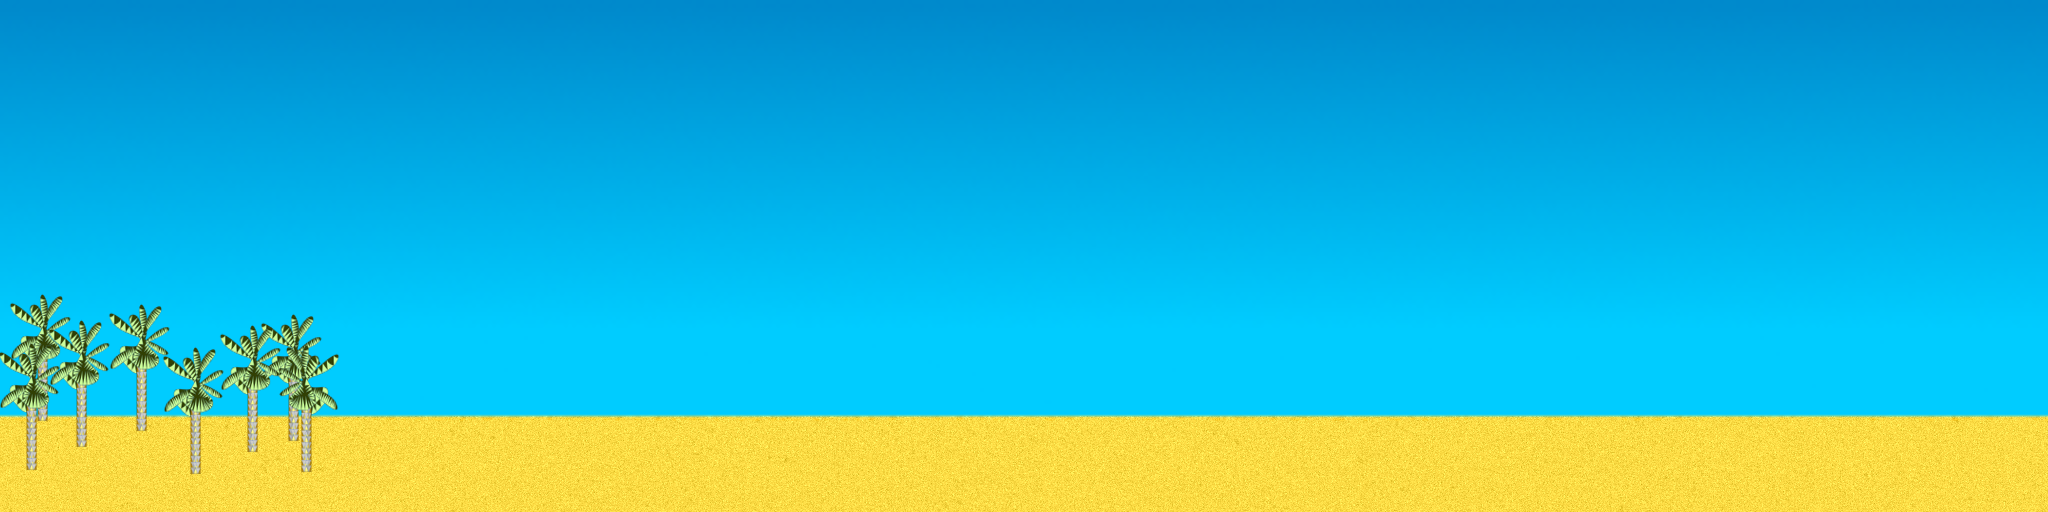
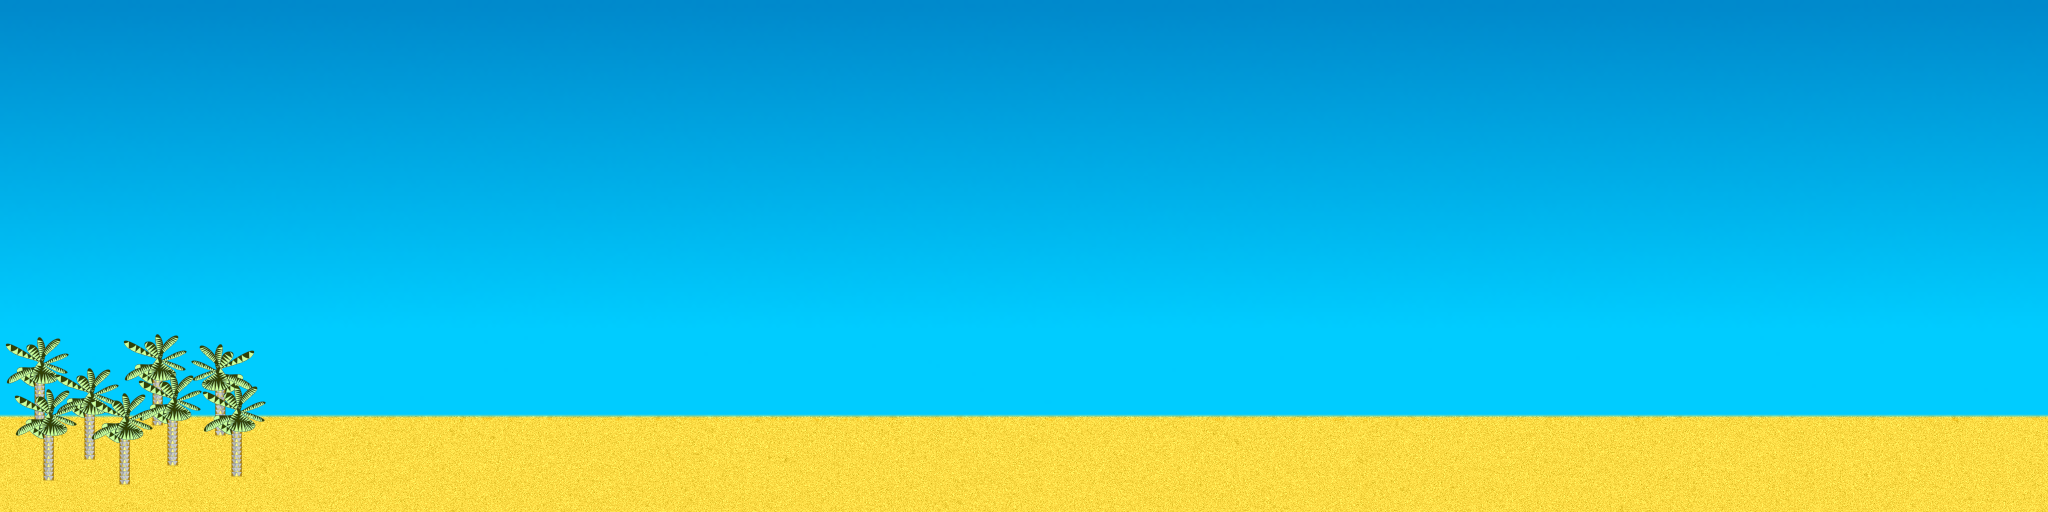
Background now isn't stretched.

Changed region(s): [[0.0, 0.5625, 0.1875, 0.9375]]

diff --git a/core/src/lando/systems/ld34/world/Background.java b/core/src/lando/systems/ld34/world/Background.java
@@ -13,11 +13,14 @@ public class Background {
     public int SandHeight = 90;
 
     public MutableFloat xOffset;
+    private int vTop;
+
     public Background(){
-        xOffset = new MutableFloat(96);
+        xOffset = new MutableFloat(0);
+        vTop = Assets.background.getHeight() - Assets.background.getHeight()*Config.height/Config.width;
     }
 
     public void render (SpriteBatch batch){
-        batch.draw(Assets.background, 0, 0, Config.width, Config.height, xOffset.intValue(), 0, Assets.background.getWidth()/6, Assets.background.getHeight(), false, false);
+        batch.draw(Assets.background, 0, 0, Config.width, Config.height, xOffset.intValue(), vTop, Assets.background.getWidth()/8, Assets.background.getHeight()*Config.height/Config.width, false, false);
     }
 }

diff --git a/core/src/lando/systems/ld34/screens/GameScreen.java b/core/src/lando/systems/ld34/screens/GameScreen.java
@@ -88,7 +88,7 @@ public class GameScreen extends AbstractScreen {
                 .push(Tween.to(sceneAlpha, 1, SCENEFADE)
                       .target(0))
                 .push(Tween.to(background.xOffset, 1, BACKGROUNDTRANSITION)
-                        .target(nextArea.worldX * (Assets.background.getWidth()/6f)))
+                        .target(nextArea.worldX * (Assets.background.getWidth()/8f)))
                 .push(Tween.call(new TweenCallback() {
                     @Override
                     public void onEvent(int i, BaseTween<?> baseTween) {
